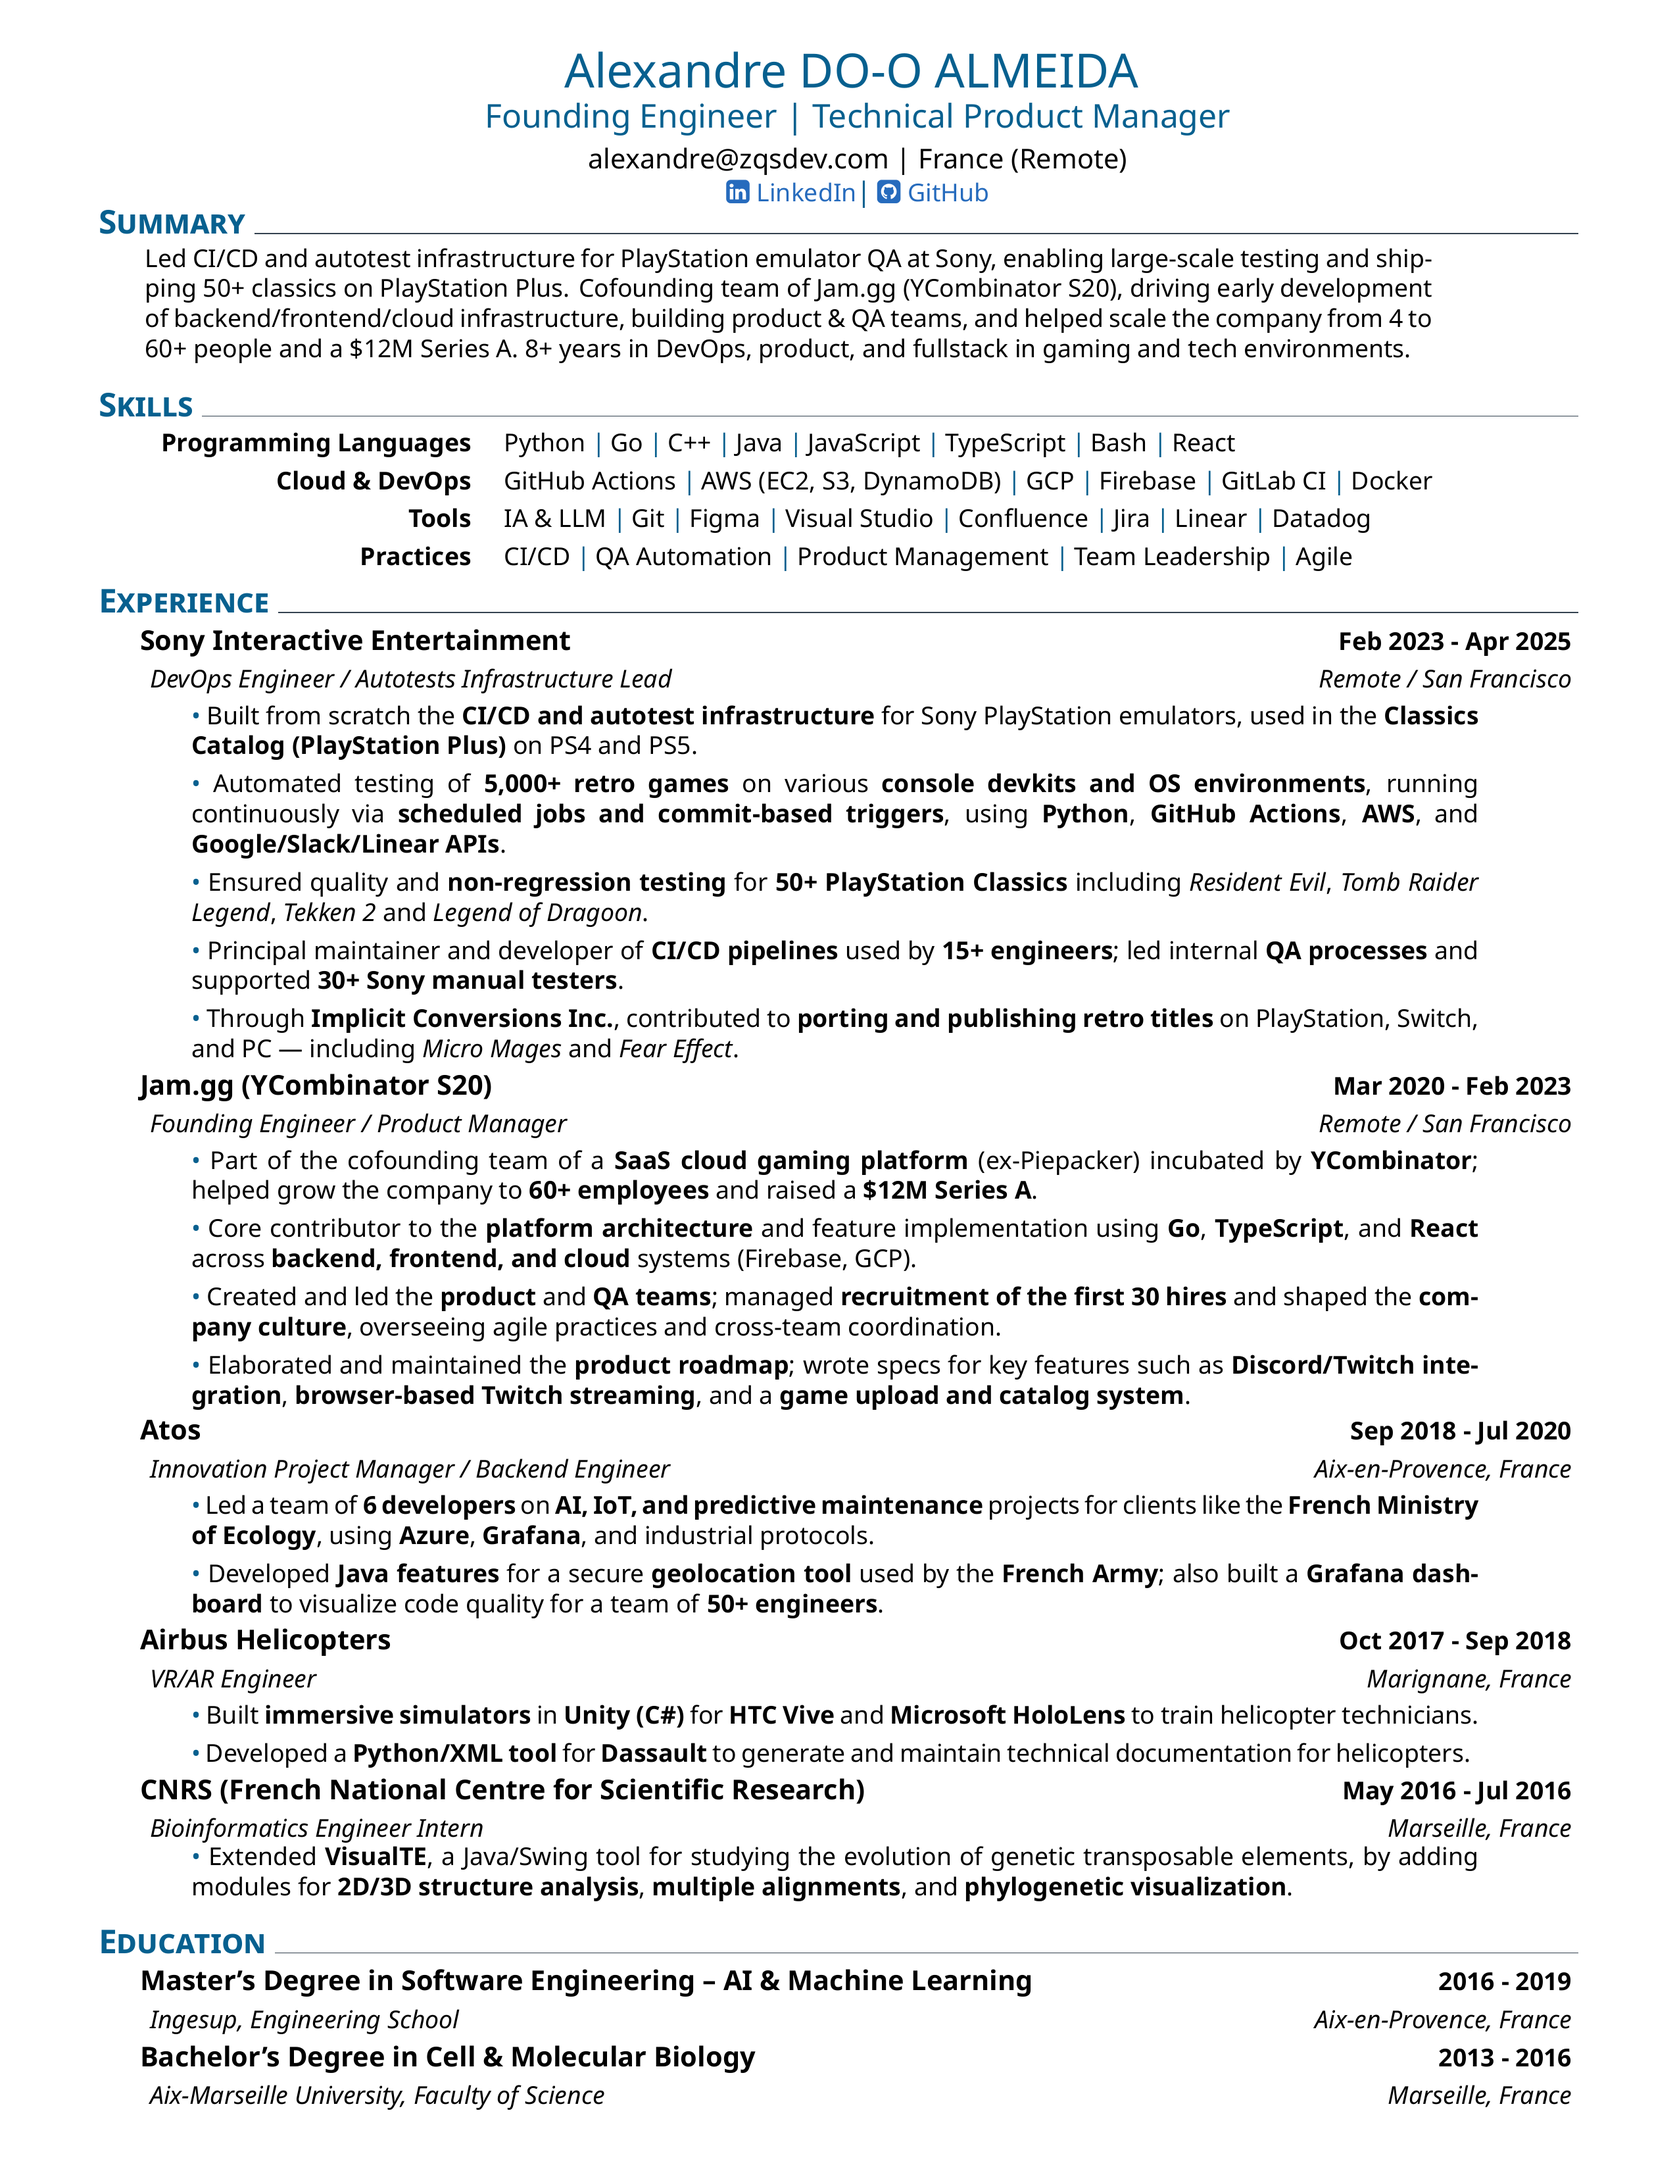
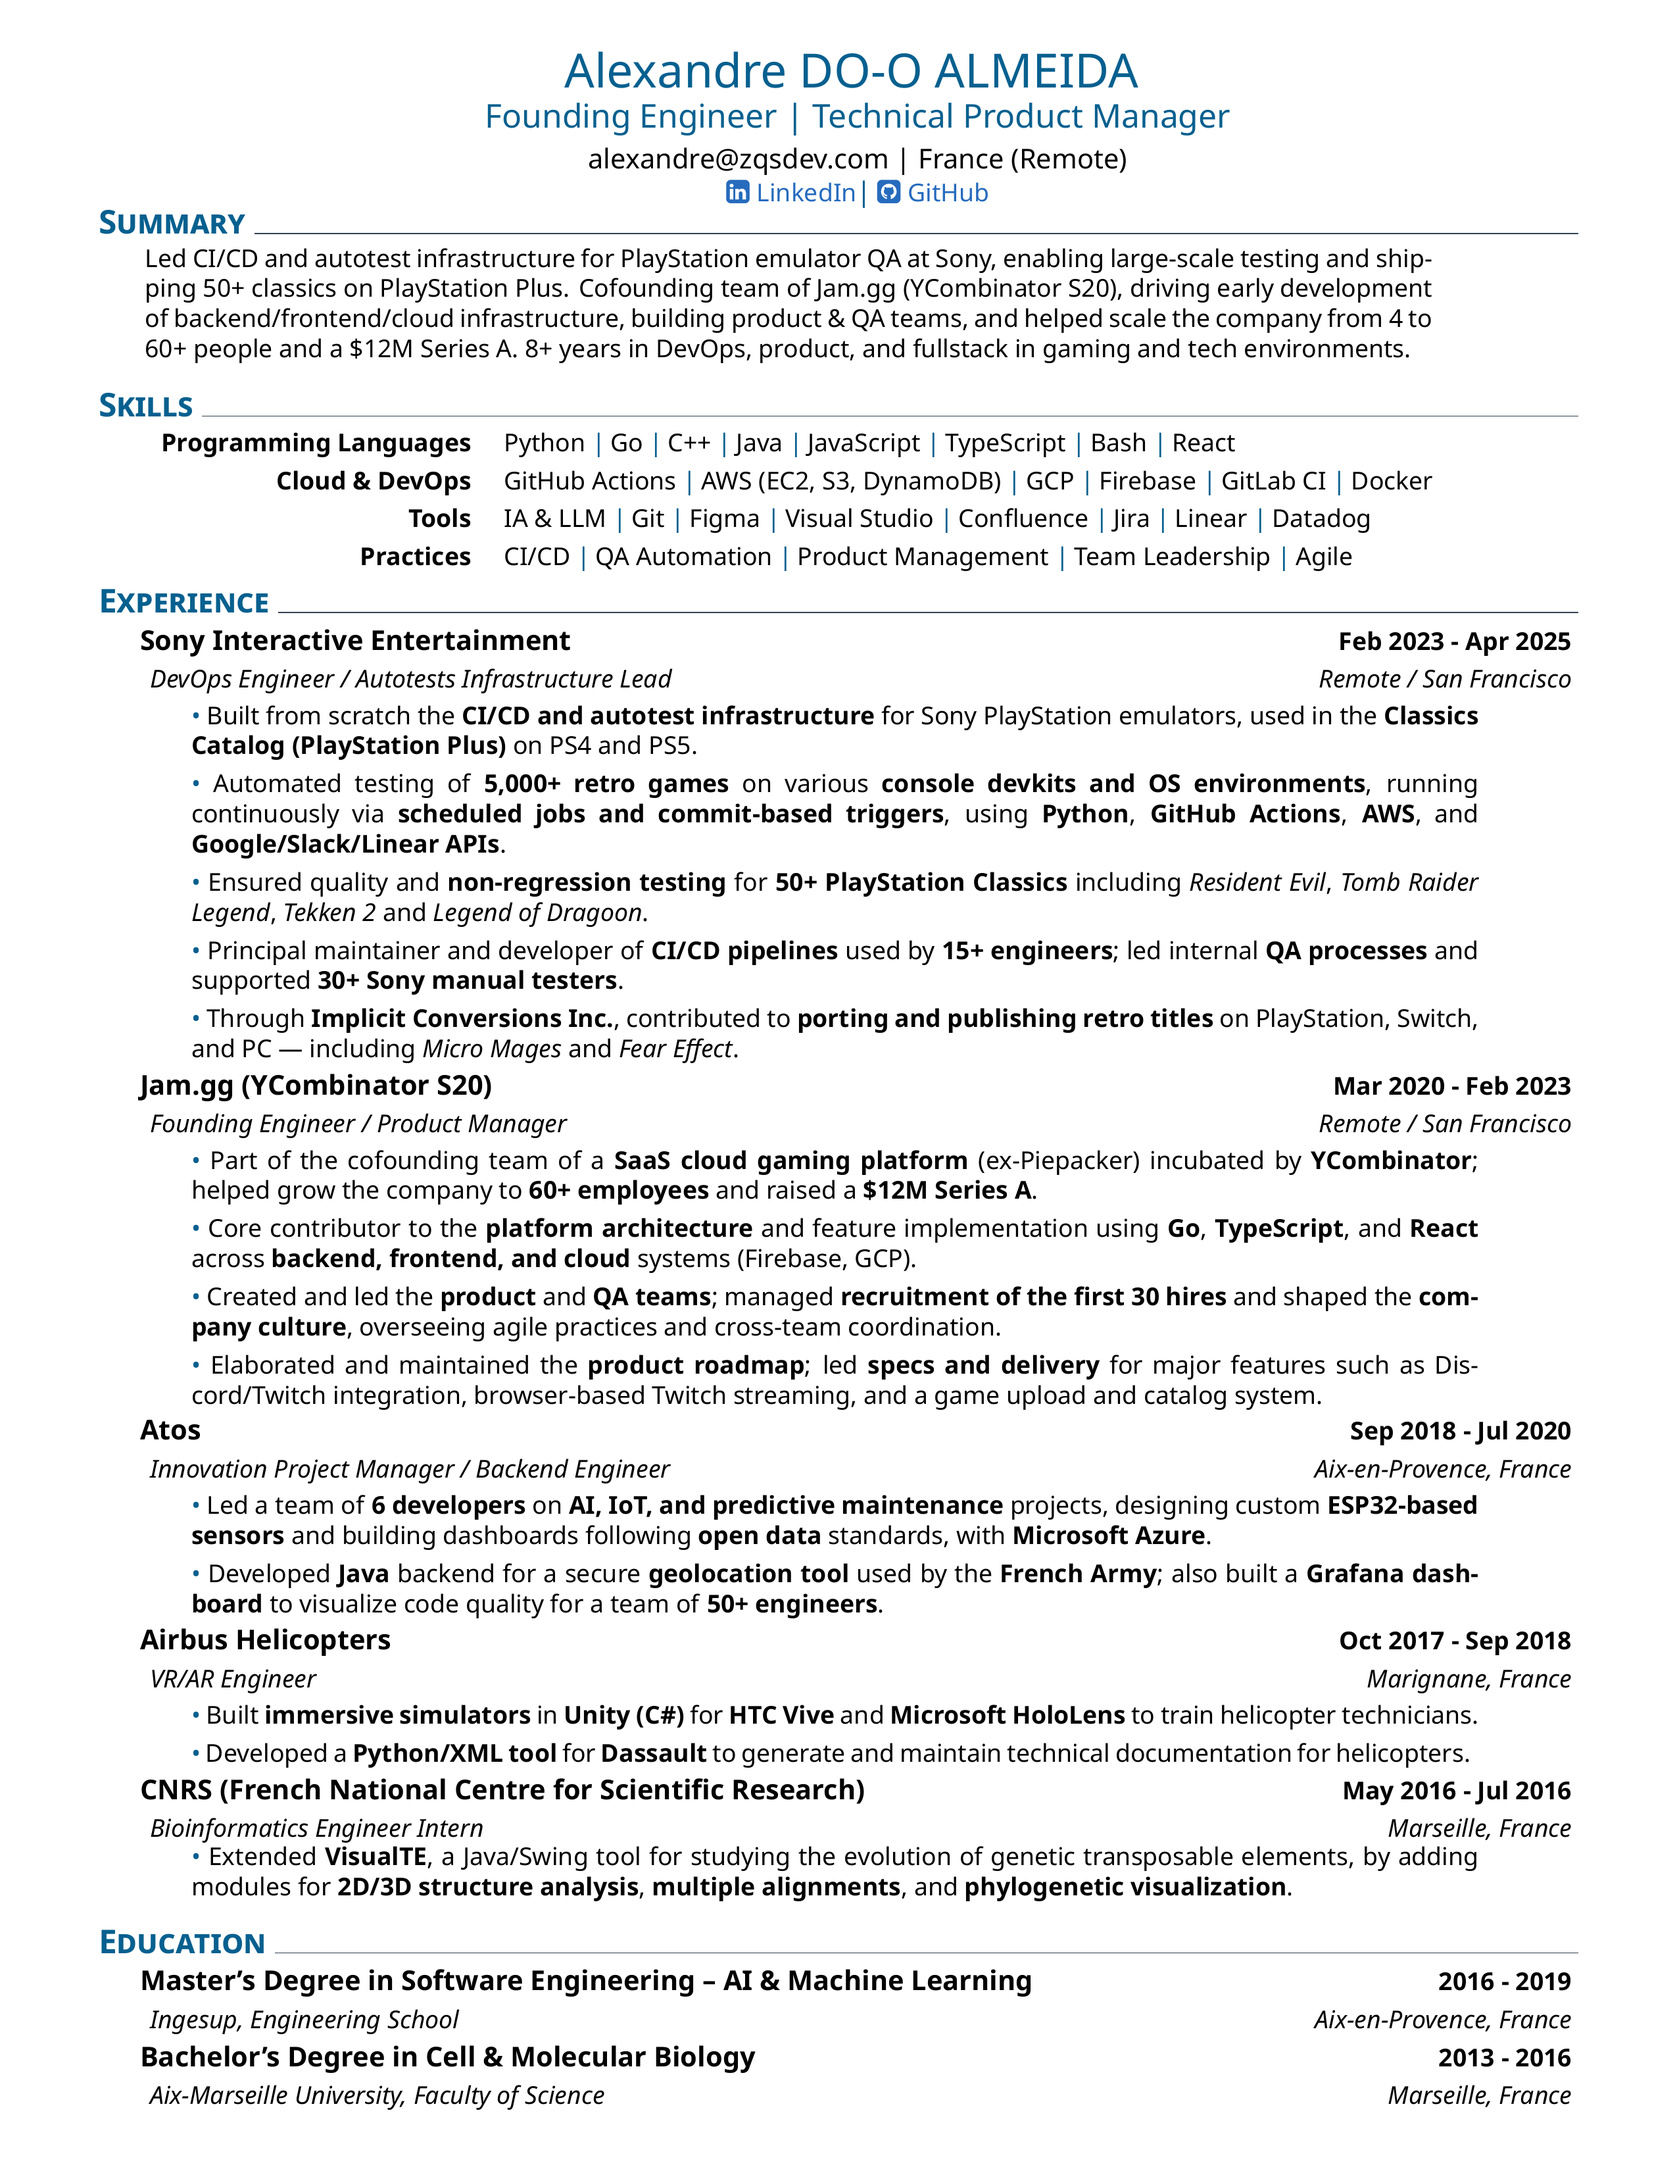
Atos changes

Changed region(s): [[0.1239, 0.6867, 0.8675, 0.7491], [0.1239, 0.6242, 0.8675, 0.6555]]

diff --git a/cv.tex b/cv.tex
@@ -69,7 +69,7 @@ Led CI/CD and autotest infrastructure for PlayStation emulator QA at Sony, enabl
     
     \smallskip
     \coloredbullet\ %
-    Elaborated and maintained the \textbf{product roadmap}; wrote specs for key features such as \textbf{Discord/Twitch integration}, \textbf{browser-based Twitch streaming}, and a \textbf{game upload and catalog system}.
+    Elaborated and maintained the \textbf{product roadmap}; led \textbf{specs and delivery} for major features such as Discord/Twitch integration, browser-based Twitch streaming, and a game upload and catalog system.
     }
     %
     \datedexperience{Atos}{Sep 2018 - Jul 2020}
@@ -77,11 +77,11 @@ Led CI/CD and autotest infrastructure for PlayStation emulator QA at Sony, enabl
     \explanationdetail{
     \smallskip
     \coloredbullet\ %
-    Led a team of \textbf{6 developers} on \textbf{AI, IoT, and predictive maintenance} projects for clients like the \textbf{French Ministry of Ecology}, using \textbf{Azure}, \textbf{Grafana}, and industrial protocols.
-    
+    Led a team of \textbf{6 developers} on \textbf{AI, IoT, and predictive maintenance} projects, designing custom \textbf{ESP32-based sensors} and building dashboards following \textbf{open data} standards, with \textbf{Microsoft Azure}.
+
     \smallskip
     \coloredbullet\ %
-    Developed \textbf{Java features} for a secure \textbf{geolocation tool} used by the \textbf{French Army}; also built a \textbf{Grafana dashboard} to visualize code quality for a team of \textbf{50+ engineers}.
+    Developed \textbf{Java} backend for a secure \textbf{geolocation tool} used by the \textbf{French Army}; also built a \textbf{Grafana dashboard} to visualize code quality for a team of \textbf{50+ engineers}.
     }
     %
     \datedexperience{Airbus Helicopters}{Oct 2017 - Sep 2018}
